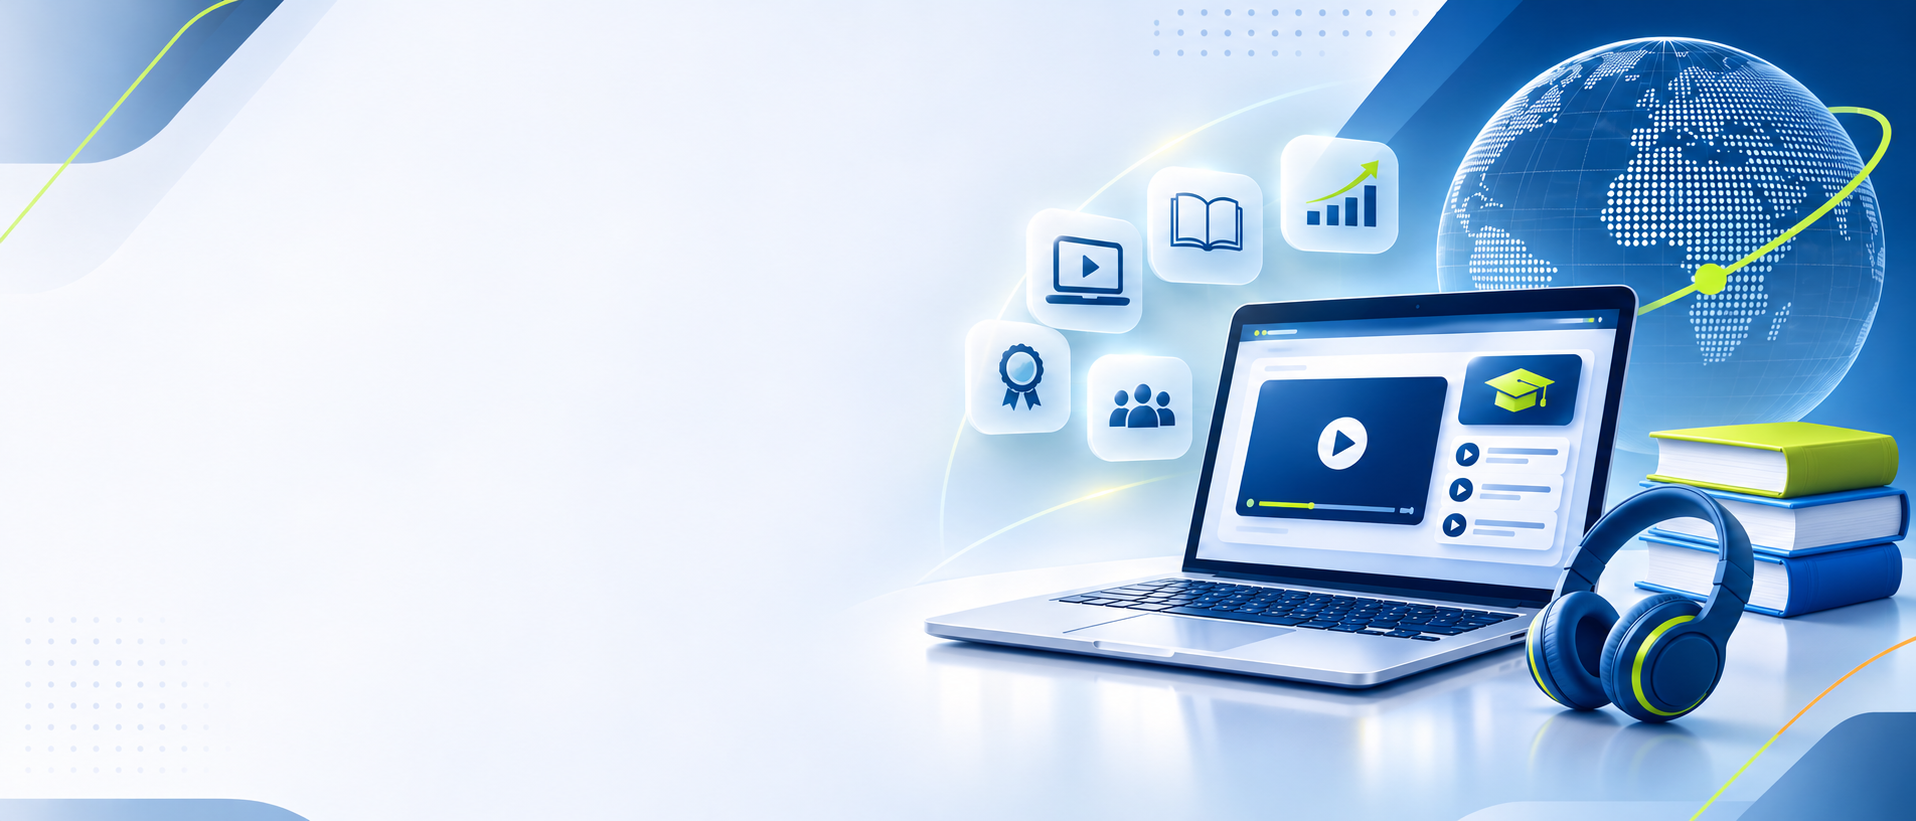
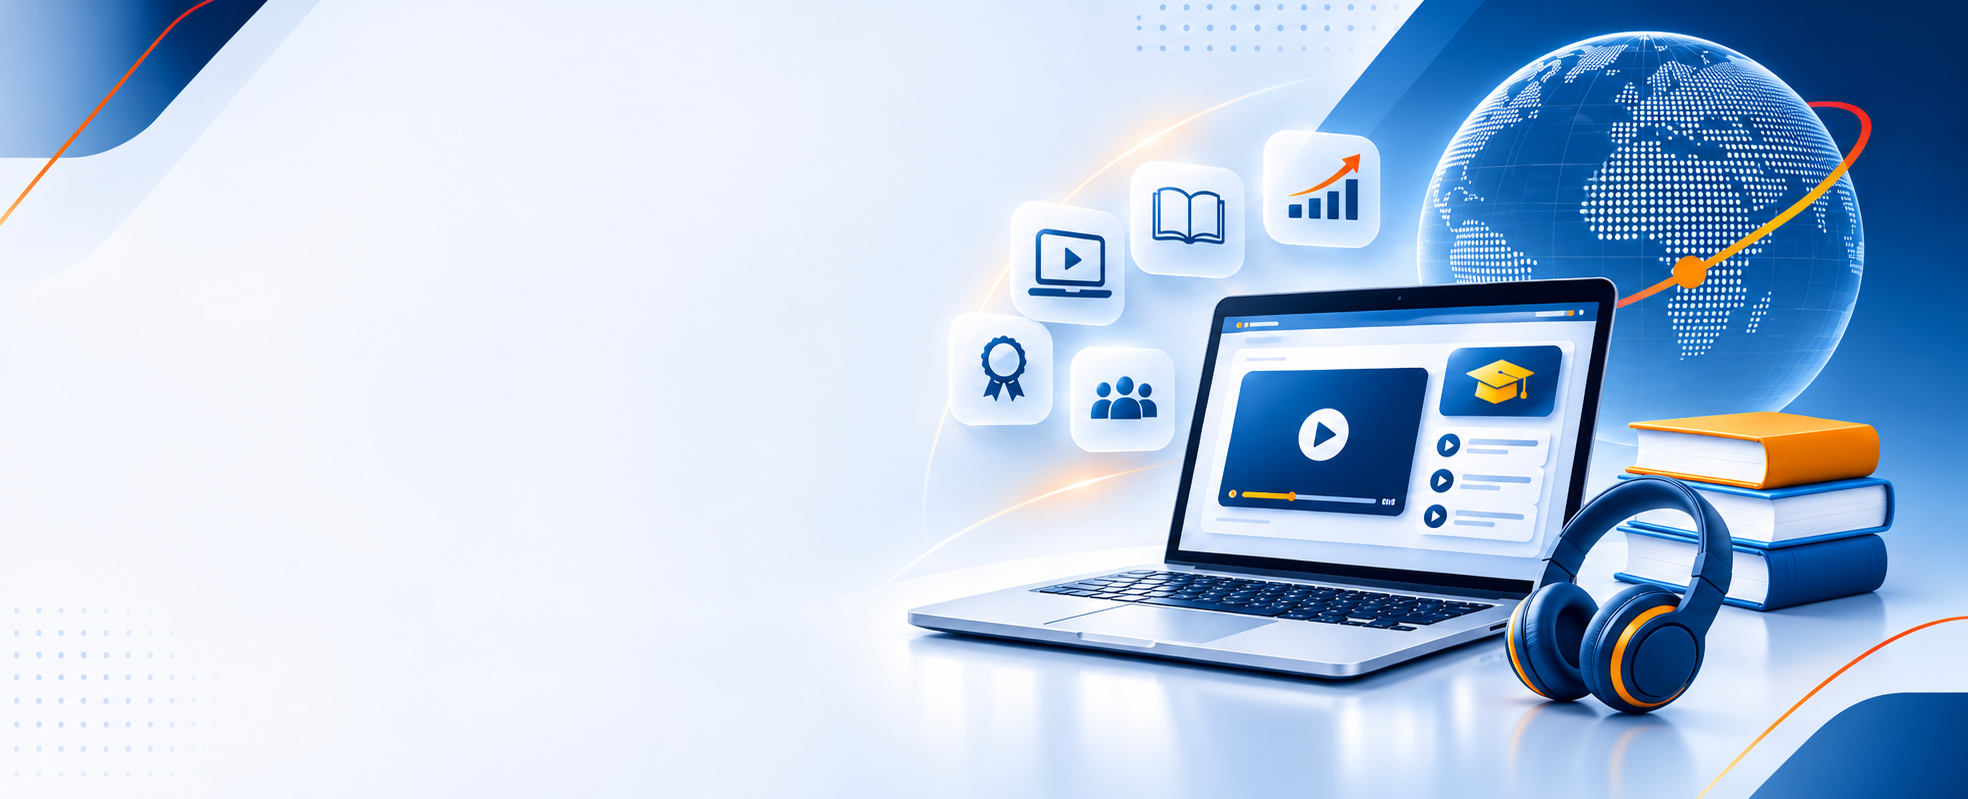
added 2 posters on carousel and other correction

diff --git a/src/pages/Home.tsx b/src/pages/Home.tsx
@@ -1,5 +1,5 @@
 import { Link } from "react-router-dom";
-import { motion, AnimatePresence } from "framer-motion";
+import { motion, AnimatePresence, useInView } from "framer-motion";
 import {
   ArrowRight,
   Building2,
@@ -24,13 +24,19 @@ import {
   Clock,
   Lightbulb,
 } from "lucide-react";
-import { useState } from "react";
+import { useEffect, useRef, useState } from "react";
 import { SiteLayout } from "@/components/site/SiteLayout";
 import { Button } from "@/components/ui/button";
 import heroWorkspace from "@/assets/hero-workspace.png";
+import heroBanner2 from "@/assets/hero-banner-2.png";
 import posterElearning from "@/assets/poster-elearning.jpg";
 import posterTechnology from "@/assets/poster-technology.jpg";
 import posterCollaboration from "@/assets/poster-collaboration.jpg";
+
+const heroSlides = [
+  { src: heroWorkspace, alt: "Modern E-Learning Workspace" },
+  { src: heroBanner2, alt: "Modern E-Learning Technology Banner" },
+];
 
 /* ── Brand data ─────────────────────────────────────────────────────────── */
 const industries = [
@@ -118,51 +124,100 @@ export default function HomePage() {
 
 /* ── Hero ───────────────────────────────────────────────────────────────── */
 function HeroSection() {
+  const [slide, setSlide] = useState(0);
+
+  useEffect(() => {
+    const id = setInterval(() => {
+      setSlide((s) => (s + 1) % heroSlides.length);
+    }, 5500);
+    return () => clearInterval(id);
+  }, []);
+
   return (
-    <section
-      className="relative overflow-hidden py-24 md:py-32 bg-cover bg-center bg-no-repeat"
-      style={{ backgroundImage: `url(${heroWorkspace})` }}
-    >
-      {/* Left-to-right readability overlay so text stays crisp while artwork shines on the right */}
+    <section className="relative overflow-hidden py-24 md:py-32 bg-white">
+      {/* 2-slide auto-playing hero background carousel */}
+      <AnimatePresence mode="sync">
+        <motion.img
+          key={heroSlides[slide].src}
+          src={heroSlides[slide].src}
+          alt={heroSlides[slide].alt}
+          initial={{ opacity: 0 }}
+          animate={{ opacity: 1 }}
+          exit={{ opacity: 0 }}
+          transition={{ duration: 0.8, ease: "easeOut" }}
+          className="absolute inset-0 h-full w-full object-cover object-center"
+        />
+      </AnimatePresence>
+
+      {/* Left-to-right readability gradient */}
       <div
         aria-hidden
-        className="pointer-events-none absolute inset-0 bg-gradient-to-r from-white/95 via-white/80 to-white/20"
+        className="pointer-events-none absolute inset-0 bg-gradient-to-r from-[#ffffff]/90 via-[#ffffff]/15 to-transparent"
       />
 
       <div className="container-px mx-auto max-w-7xl relative z-10">
-        <div className="max-w-3xl">
-          <span className="eyebrow">Think Big. We Do Solutions.</span>
-          <h1 className="display-h1 mt-4 text-foreground">
+        <div className="max-w-2xl">
+          <span className="inline-flex items-center gap-2 text-[0.72rem] font-semibold uppercase tracking-[0.18em] text-[#F89E2C]">
+            <span className="block h-px w-7 bg-[#F89E2C]" />
+            Think Big. We Do Solutions.
+          </span>
+          <h1 className="display-h1 mt-4 text-black">
             e-Learning &amp; Technology{" "}
-            <span className="text-primary">Solutions.</span>
+            <span className="text-[#FF5E0D]">Solutions.</span>
           </h1>
-          <p className="mt-6 text-lg text-muted-foreground leading-relaxed max-w-2xl">
+          <p className="mt-6 text-lg text-black/85 leading-relaxed max-w-xl">
             Get what's finest for your business's growth and take your work
             digitally with Cilantra. We help organizations looking to train
             their employees, partners, and customers switch to web and
             mobile-based learning and digital platforms.
           </p>
           <div className="mt-8 flex flex-wrap gap-3">
-            <Button size="lg" asChild>
+            <Button
+              size="lg"
+              className="bg-[#FF5E0D] text-white hover:bg-[#EB061A] shadow-[0_10px_30px_rgba(255,94,13,0.4)]"
+              asChild
+            >
               <Link to="/contact">
                 Start a Conversation <ArrowRight className="ml-2 h-4 w-4" />
               </Link>
             </Button>
-            <Button size="lg" variant="outline" asChild>
+            <Button
+              size="lg"
+              variant="outline"
+              className="bg-black text-[#ffffff] border-white hover:bg-black/80"
+              asChild
+            >
               <Link to="/services">Explore Solutions</Link>
             </Button>
           </div>
 
-          <div className="mt-10 flex flex-wrap gap-6 text-sm text-muted-foreground">
+          <div className="mt-10 flex flex-wrap items-center gap-6 text-sm text-black/85">
             {[
               "50+ In-house specialists",
               "35+ Clients across 4 continents",
               "No-subcontract quality guarantee",
             ].map((t) => (
               <span key={t} className="flex items-center gap-1.5">
-                <CheckCircle2 className="h-4 w-4 text-primary" />
+                <CheckCircle2 className="h-4 w-4 text-[#F89E2C]" />
                 {t}
               </span>
+            ))}
+          </div>
+
+          {/* Slide switcher dots */}
+          <div className="mt-8 flex items-center gap-2">
+            {heroSlides.map((_, i) => (
+              <button
+                key={i}
+                type="button"
+                aria-label={`Show slide ${i + 1}`}
+                onClick={() => setSlide(i)}
+                className={`h-2 rounded-full transition-all ${
+                  slide === i
+                    ? "w-8 bg-[#FF5E0D]"
+                    : "w-2 bg-black/25 hover:bg-black/50"
+                }`}
+              />
             ))}
           </div>
         </div>
@@ -172,6 +227,41 @@ function HeroSection() {
 }
 
 /* ── Stats ──────────────────────────────────────────────────────────────── */
+function AnimatedCounter({ value }: { value: string }) {
+  const ref = useRef<HTMLSpanElement>(null);
+  const inView = useInView(ref, { once: true, amount: 0.4 });
+  const match = value.match(/^(\d+)(.*)$/);
+  const target = match ? parseInt(match[1], 10) : 0;
+  const suffix = match ? match[2] : "";
+  const [count, setCount] = useState(0);
+
+  useEffect(() => {
+    if (!inView) return;
+    let rafId = 0;
+    const duration = 1600;
+    const start = performance.now();
+
+    const step = (now: number) => {
+      const progress = Math.min((now - start) / duration, 1);
+      const eased = 1 - Math.pow(1 - progress, 3);
+      setCount(Math.round(eased * target));
+      if (progress < 1) {
+        rafId = requestAnimationFrame(step);
+      }
+    };
+
+    rafId = requestAnimationFrame(step);
+    return () => cancelAnimationFrame(rafId);
+  }, [inView, target]);
+
+  return (
+    <span ref={ref}>
+      {count}
+      {suffix}
+    </span>
+  );
+}
+
 function StatsSection() {
   return (
     <section className="section section-dark">
@@ -186,8 +276,8 @@ function StatsSection() {
               transition={{ duration: 0.5, delay: i * 0.08 }}
               className="text-center"
             >
-              <div className="text-4xl md:text-5xl font-display font-bold text-gold">
-                {s.value}
+              <div className="text-4xl md:text-5xl font-display font-bold text-gold tabular-nums">
+                <AnimatedCounter value={s.value} />
               </div>
               <div className="mt-1.5 text-sm text-white/80">{s.label}</div>
             </motion.div>
@@ -478,20 +568,21 @@ function CTASection() {
   return (
     <section className="section section-grid">
       <div className="container-px mx-auto max-w-6xl">
-        <div className="relative overflow-hidden rounded-3xl bg-primary text-primary-foreground p-8 md:p-12 shadow-elegant">
-          <div className="absolute -right-20 -top-20 h-80 w-80 rounded-full bg-gold/30 blur-3xl pointer-events-none" />
+        <div className="relative overflow-hidden rounded-3xl bg-[#18121E] text-white p-8 md:p-12 shadow-elegant border border-white/10">
+          <div className="absolute -right-20 -top-20 h-80 w-80 rounded-full bg-[#FF5E0D]/25 blur-3xl pointer-events-none" />
+          <div className="absolute -left-16 -bottom-20 h-64 w-64 rounded-full bg-[#EB061A]/20 blur-3xl pointer-events-none" />
           <div className="relative grid md:grid-cols-3 gap-8 items-center">
             <div className="md:col-span-2">
-              <span className="text-xs font-semibold uppercase tracking-widest text-gold">
+              <span className="text-xs font-semibold uppercase tracking-widest text-[#F89E2C]">
                 Let's build together
               </span>
-              <div className="mt-2 h-0.5 w-10 bg-gold" />
-              <h3 className="display-h2 mt-5">
+              <div className="mt-2 h-0.5 w-10 bg-[#F89E2C]" />
+              <h3 className="display-h2 mt-5 text-white">
                 Ready to take your work digitally?
                 <br />
                 Let's build the right solution.
               </h3>
-              <p className="mt-4 text-primary-foreground/80 max-w-xl leading-relaxed">
+              <p className="mt-4 text-white/80 max-w-xl leading-relaxed">
                 From custom e-Learning, gamification, and Moodle LMS to web &amp;
                 mobile apps, 3D animation, and AR/VR — we deliver integrated
                 solutions built for your business growth.
@@ -500,8 +591,7 @@ function CTASection() {
             <div className="flex flex-col items-start gap-3 md:items-end">
               <Button
                 size="lg"
-                variant="gold"
-                className="min-w-[220px]"
+                className="min-w-[220px] bg-[#FF5E0D] text-white hover:bg-[#EB061A] shadow-[0_10px_30px_rgba(255,94,13,0.35)]"
                 asChild
               >
                 <Link to="/contact">
@@ -511,18 +601,18 @@ function CTASection() {
               <Button
                 size="lg"
                 variant="outline"
-                className="min-w-[220px] border-primary-foreground/30 text-primary-foreground hover:bg-primary-foreground/10"
+                className="min-w-[220px] bg-transparent border-white/35 text-white hover:bg-white/10 hover:text-white"
                 asChild
               >
                 <Link to="/services">Explore Solutions</Link>
               </Button>
             </div>
           </div>
-          <div className="relative mt-10 pt-6 border-t border-primary-foreground/15 flex items-center justify-center gap-3">
-            <div className="h-9 w-9 rounded-full bg-primary-foreground/10 flex items-center justify-center">
-              <Users2 className="h-4 w-4" />
+          <div className="relative mt-10 pt-6 border-t border-white/15 flex items-center justify-center gap-3">
+            <div className="h-9 w-9 rounded-full bg-white/10 flex items-center justify-center">
+              <Users2 className="h-4 w-4 text-[#F89E2C]" />
             </div>
-            <p className="text-sm text-primary-foreground/80">
+            <p className="text-sm text-white/80">
               Think Big. We Do Solutions.
             </p>
           </div>

diff --git a/src/pages/Services.tsx b/src/pages/Services.tsx
@@ -277,19 +277,22 @@ export default function ServicesPage() {
               </motion.div>
             </div>
 
-            <div className="mt-10 relative overflow-hidden rounded-2xl bg-primary text-primary-foreground p-6 md:p-8 shadow-elegant">
-              <div className="absolute -right-10 -top-10 h-48 w-48 rounded-full bg-gold/20 blur-3xl pointer-events-none" />
+            <div className="mt-10 relative overflow-hidden rounded-2xl bg-[#18121E] text-white p-6 md:p-8 shadow-elegant border border-white/10">
+              <div className="absolute -right-10 -top-10 h-48 w-48 rounded-full bg-[#FF5E0D]/25 blur-3xl pointer-events-none" />
               <div className="relative flex flex-col md:flex-row md:items-center gap-6">
-                <div className="h-14 w-14 rounded-2xl bg-primary-foreground/10 flex items-center justify-center shrink-0">
-                  <s.icon className="h-7 w-7" />
+                <div className="h-14 w-14 rounded-2xl bg-white/10 flex items-center justify-center shrink-0">
+                  <s.icon className="h-7 w-7 text-[#F89E2C]" />
                 </div>
                 <div className="flex-1">
-                  <h4 className="font-display text-xl">{s.ctaTitle}</h4>
-                  <p className="mt-1 text-primary-foreground/80 text-sm max-w-xl">
+                  <h4 className="font-display text-xl text-white">{s.ctaTitle}</h4>
+                  <p className="mt-1 text-white/80 text-sm max-w-xl">
                     {s.ctaBody}
                   </p>
                 </div>
-                <Button variant="gold" asChild className="shrink-0">
+                <Button
+                  asChild
+                  className="shrink-0 bg-[#FF5E0D] text-white hover:bg-[#EB061A]"
+                >
                   <Link to="/contact">
                     Talk to Us <ArrowRight className="ml-2 h-4 w-4" />
                   </Link>

diff --git a/src/components/site/Header.tsx b/src/components/site/Header.tsx
@@ -25,13 +25,13 @@ export function Header() {
 
   return (
     <header
-      className={`sticky py-1 top-0 z-50 backdrop-blur-md transition-all ${
+      className={`sticky py-2.5 top-0 z-50 backdrop-blur-md transition-all border-b ${
         scrolled
-          ? "bg-background/85 border-b border-border"
-          : "bg-background/60"
+          ? "bg-background/90 border-[#FF5E0D]/20 shadow-[0_6px_24px_-2px_rgba(255,94,13,0.24)]"
+          : "bg-background/75 border-[#FF5E0D]/15 shadow-[0_4px_20px_-2px_rgba(255,94,13,0.16)]"
       }`}
     >
-      <div className="w-full px-4 sm:px-6 lg:px-10 flex items-center justify-between">
+      <div className="w-full px-4 sm:px-6 lg:px-8 flex items-center justify-between">
         <Logo />
 
         {/* Desktop nav */}
